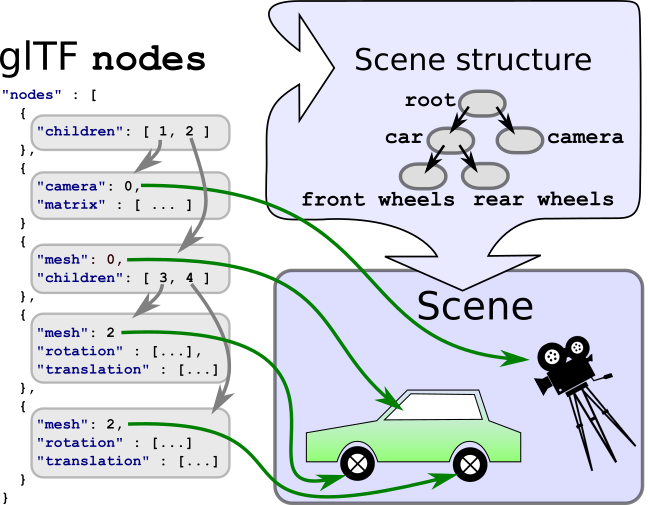
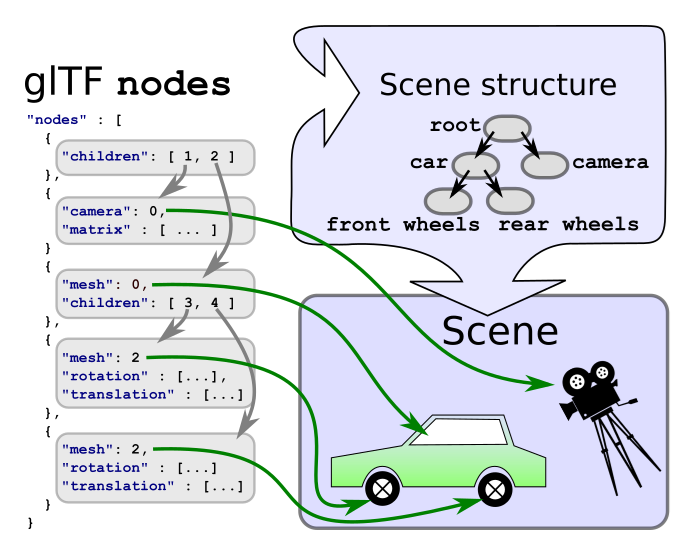
Wording for gltf 1~7

diff --git a/src/ComputerGraphic/gltf/ScenesNodes/README.md b/src/ComputerGraphic/gltf/ScenesNodes/README.md
@@ -11,7 +11,7 @@ category: computer-graphic
 
 ## Scenes
 
-一個 glTF 檔案中可以儲存多個場景（scene）。 `scene` 屬性用來指定這些場景中哪一個應該作為載入 asset 時預設顯示的場景。 每個 scene 包含一個 `nodes` 陣列，裡面是場景圖（scene graph）根節點的索引。 同樣地，一個場景可以有多個根節點，形成不同的階層結構，不過一般情況下通常只會有一個根節點
+一個 glTF 檔案中可以儲存多個場景，`scene` 屬性用來指定這些場景中哪一個應該作為載入 asset 時預設顯示的場景。 每個 scene 包含一個 `nodes` 陣列，裡面是場景圖根節點的索引。 同樣地，一個場景可以有多個根節點，形成不同的階層結構，不過一般情況下通常只會有一個根節點
 
 下面是一個最簡單的場景描述形式，在前一節已經出現過了，它只包含一個場景和一個節點：
 
@@ -30,9 +30,18 @@ category: computer-graphic
   ],
 ```
 
+表示：
+
+- `"scene": 0`
+  - 指定預設要載入的 scene，是 `scenes` 陣列中的第 0 個。
+- `"scenes": [{ "nodes": [0] }]`
+  - `scenes[0]` 這個場景中有一個 root node：`nodes[0]`
+- `"nodes": [{ "mesh": 0 }]`
+  - `nodes[0]` 裡有一個 mesh，是 `meshes[0]`
+
 ## Nodes forming the scene graph
 
-每個 [`node`](https://www.khronos.org/registry/glTF/specs/2.0/glTF-2.0.html#reference-node) 都可以包含一個名為 `children` 的陣列，裡面存的是它的子節點（child nodes）的索引。 因此，每個 node 都是節點階層結構中的一個元素，這些節點彼此組合起來，就構成了場景的結構，也就是所謂的場景圖（scene graph）
+每個 [`node`](https://www.khronos.org/registry/glTF/specs/2.0/glTF-2.0.html#reference-node) 都可以包含一個名為 `children` 的陣列，裡面存的是它的子節點的索引。 因此，每個 node 都是節點階層結構中的一個元素，這些節點彼此組合起來，就構成了場景的結構，也就是所謂的場景圖（scene graph）
 
 <div class = "center-column">
 
@@ -41,9 +50,9 @@ category: computer-graphic
 
 </div>
 
-在 `scene` 中列出的每一個節點，都可以透過走訪的方式，遞迴地拜訪它們的所有子節點，以處理所有附加在這些節點上的元素。 簡化版的遍歷流程（pseudocode）可能長這樣：
+在 `scene` 中列出的每一個節點，都可以透過走訪的方式，遞迴地拜訪它們的所有子節點，以處理所有附加在這些節點上的元素。 簡化版的走訪流程（pseudocode）可能長這樣：
 
-```scss
+```c
 traverse(node) {
     // Process the meshes, cameras, etc., that are
     // attached to this node - discussed later
@@ -56,13 +65,13 @@ traverse(node) {
 }
 ```
 
-實際上，在進行遍歷時還需要額外的資訊：
+實際上，在進行走訪時還需要額外的資訊：
 
 - 某些附加在節點上的元素，處理時需要知道它們是附加在哪個節點上的
-- 而且，節點的**變換資訊（transform）**需要在遍歷過程中累積起來
+- 而且，節點的變換資訊需要在走訪過程中累積起來
 
 ::: tip  
-在 glTF 的場景圖（scene graph）裡，每個節點（node）都可以有自己的 transform（變換），也就是：
+在 glTF 的場景圖裡，每個節點都可以有自己的變換，也就是：
 
 - 位移（translation）
 - 旋轉（rotation）
@@ -70,12 +79,12 @@ traverse(node) {
 
 這些變換定義了「這個節點的座標系」相對於它的父節點的位置關係。 所以，當你要算一個節點的最終世界座標（world transform）時，你必須從 root node 開始，沿著樹一路累積每一層的變換
 
-這就是上方「transform 累積」的意思  
+這就是上方提到的「累積」的意思  
 :::
 
 ### Local and global transforms
 
-每個節點（node）都可以擁有一個變換（transform）。 這個變換可以包含位移（translation）、旋轉（rotation）和／或縮放（scale），其會套用到附加在該節點上的所有元素，以及該節點底下的所有子節點
+每個節點都可以擁有一個變換，這個變換可以包含位移（translation）、旋轉（rotation）和縮放（scale），其會套用到附加在該節點上的所有元素，以及該節點底下的所有子節點
 
 透過節點之間的階層結構，可以組織並管理套用到場景元素上的位移、旋轉與縮放變換
 
@@ -85,9 +94,9 @@ traverse(node) {
 
 下面這個矩陣描述了：
 
-- 一個縮放（scaling）操作，縮放比例為 (2, 1, 0.5)
-- 一個繞 x 軸旋轉 30 度（rotation）
-- 以及一個位移（translation）(10, 20, 30)
+- 一個縮放操作，縮放比例為 `(2, 1, 0.5)`
+- 一個繞 x 軸旋轉 30 度
+- 一個位移操作 `(10, 20, 30)`
 
 ```javascript
 "node0": {
@@ -147,7 +156,7 @@ R = \begin{pmatrix}
 \end{pmatrix}
 $$
 
-`scale`（縮放）包含了沿著 x、y、z 軸方向的縮放係數，可以透過把這些係數填入矩陣的對角線來建立對應的縮放矩陣， 例如係數 `[ 2.0, 1.0, 0.5 ]` 對應的縮放矩陣如下所示：
+`scale`包含了沿著 x、y、z 軸方向的縮放係數，可以透過把這些係數填入矩陣的對角線來建立對應的縮放矩陣， 例如係數 `[ 2.0, 1.0, 0.5 ]` 對應的縮放矩陣如下所示：
 
 $$
 S = \begin{pmatrix}
@@ -191,9 +200,7 @@ M = T \times R \times S =
 \end{pmatrix}
 $$
 
-這個矩陣會讓網格（mesh）的頂點按照節點中指定的 `scale`、`rotation`、`translation` 屬性，依序進行縮放 → 旋轉 → 平移的變換
-
-如果節點中沒有提供這三個屬性中的某一個，則會自動使用單位矩陣（identity matrix）代替。 同樣地，如果一個節點既沒有 `matrix` 屬性，也沒有 TRS 屬性，那它的局部變換矩陣就是單位矩陣
+這個矩陣會讓網格的頂點按照節點中指定的 `scale`、`rotation`、`translation` 屬性，依序進行縮放 → 旋轉 → 平移的變換。 如果節點中沒有提供這三個屬性中的某一個，則會自動使用單位矩陣（identity matrix）代替。 同樣地，如果一個節點既沒有 `matrix` 屬性，也沒有 TRS 屬性，那它的局部變換矩陣就是單位矩陣
 
 #### Global transforms of nodes
 
@@ -207,7 +214,7 @@ root                 R                   R
      +- nodeC        C                   R*A*C
 ```
 
-要注意的是，載入 glTF 檔案之後，全域變換（global transforms）並不是一次計算完就結束了，後面會提到，像是動畫（animation），可能會動態修改某些節點的區域變換，而這些變動又會影響到所有子節點（descendant nodes）的全域變換
+要注意的是，載入 glTF 檔案之後，全域變換並不是一次計算完就結束了，後面會提到，像是動畫可能會動態修改某些節點的區域變換，而這些變動又會影響到所有子節點（descendant nodes）的全域變換
 
 因此，每當需要取得某個節點的 global transform 時，都必須從目前最新的各個節點的 local transforms 重新計算。 實作上也可以通過快取全域變換來優化，並且只在偵測到祖先節點（ancestor nodes）有變動時，才重新更新 global transform
 

diff --git a/src/ComputerGraphic/gltf/SimpleAnimation/README.md b/src/ComputerGraphic/gltf/SimpleAnimation/README.md
@@ -164,25 +164,6 @@ category: computer-graphic
 - 一個新的 `bufferView`，用來參考這個 buffer
 - 兩個新的 `accessor` 物件，為動畫資料加入結構資訊
 
-::: tip  
-在這裡，「structural information（結構資訊）」是指附加在原始資料（raw data）之上，用來說明這些資料該怎麼被解讀、怎麼被排列、型別是什麼的額外描述資訊
-
-用 glTF 動畫的例子來講：
-
-- `buffer`：
-  純粹就是一連串的位元組（binary data），本身沒有結構意義，例如：「100 bytes 的資料」
-- `bufferView`：
-  把 `buffer` 切成小塊，但仍然不知道這些 bytes 是代表 float？還是 short？是一個數字還是一組向量？
-- `accessor`（這就是 Structural Information）：
-  其告訴你這段資料的結構：
-    - 資料型態是 `FLOAT`
-    - 每個元素是 `VEC4`（四個 float）
-    - 總共有多少筆資料（count）
-    - 每筆資料佔多少位元組（根據型態推得）
-
-這就是 structural information，把純資料加上「型別」「數量」「佈局」的說明，讓渲染器（或讀取程式）知道怎麼正確地去解讀這些二進位資料  
-:::
-
 ### The `buffer` and the `bufferView` for the raw animation data
 
 我們新增了一個 `buffer` 存放原始的動畫資料，這個 buffer 同樣是透過 data URI 來編碼的，動畫資料總共有 100 個位元組：
@@ -214,9 +195,9 @@ category: computer-graphic
 
 ### The `accessor` objects for the animation data
 
-我們新增了兩個 `accessor` 物件來描述該如何解讀動畫資料，第一個 `accessor` 描述的是動畫關鍵影格（key frames）的時間點（times），其有五個元素（`count = 5`），每個元素都是一個 float 的純量，總共佔用了 20 個位元組
+我們新增了兩個 `accessor` 物件來描述該如何解讀動畫資料，第一個 `accessor` 描述的是動畫關鍵影格（key frames）的時間點（times），其有五個元素（`count = 5`），元素是 float 的純量，總共佔用了 20 個位元組
 
-第二個 `accessor` 則描述，在前面的 20 個位元組之後有五個元素，每個元素都是由 float 所組成的四維向量，它們是以四元數（quaternions）的形式表示的，會對應到五個關鍵影格的旋轉：
+第二個 `accessor` 則描述，在第 20 個位元組之後有五個元素，每個元素都是由 float 所組成的四維向量，它們是以四元數（quaternions）的形式表示的，會對應到五個關鍵影格的旋轉：
 
 ```javascript
   "accessors" : [
@@ -240,10 +221,11 @@ category: computer-graphic
       "min" : [ 0.0, 0.0, 0.0, -0.707 ]
     }
   ],
-
 ```
 
 上例中由 times accessor 和 rotations accessor 提供的實際資料如下表所示：
+
+<div class = "center-column">
 
 | *times* accessor | *rotations* accessor | 含義 |
 |:---|:---|:---|
@@ -253,11 +235,48 @@ category: computer-graphic
 | 0.75 | (0.0, 0.0, 0.707, -0.707) | 在 0.75 秒時，三角形繞 z 軸旋轉了 270 度（= -90 度） |
 | 1.0 | (0.0, 0.0, 0.0, 1.0) | 在 1.0 秒時，三角形繞 z 軸旋轉了 360 度（= 0 度） |
 
+</div>
+
 因此這個動畫描述的是在 1 秒內，三角形繞 z 軸旋轉了 360 度
+
+::: tip  
+第一個 accessor 是 times accessor，它描述了：
+
+- 這個 accessor 會從 `bufferView[2]` 的 offset 0 開始讀資料
+- 每筆資料是 float（4 bytes）
+- `count: 5` → 共有 5 個 keyframe 時間點
+- `type: "SCALAR"` → 每個元素只有一個值（不是 vector）
+
+所以這段資料就被解釋成：
+
+```json
+times = [0.0, 0.25, 0.5, 0.75, 1.0]
+```
+
+而第二個 accessor 是 rotations accessor，描述了：
+
+- 從 `bufferView[2]` 的 offset = 20 開始讀（接在 times 後面）
+- 每筆資料是 VEC4 → 四個 float（16 bytes）
+- `count: 5` → 共有 5 筆 rotation 資料
+
+所以這段資料解釋成：
+
+```json
+rotations = [
+  (0.0, 0.0, 0.0, 1.0),      // identity quaternion → 0 度
+  (0.0, 0.0, 0.707, 0.707),  // 90 度
+  (0.0, 0.0, 1.0, 0.0),      // 180 度
+  (0.0, 0.0, 0.707, -0.707), // 270 度 (或 -90 度)
+  (0.0, 0.0, 0.0, 1.0)       // 回到初始角度
+]
+```
+
+要注意這些數值都是從對應的 buffer 中讀出來的，而不是計算出來的，跟下方的 `LINEAR` 沒有關係  
+:::
 
 ## The `animation`  
 
-`animation` 是實際新增動畫資料的部分，glTF 最上層的 `animations` 陣列中包含一個 `animation` 物件，這個物件由兩個部分組成：
+`animation` 是實際新增的動畫資料的部分，glTF 最上層的 `animations` 陣列中包含一個 `animation` 物件，這個物件由兩個部分組成：
 
 - `samplers`：描述動畫資料的來源
 - `channels`：可以想像成把「動畫資料的來源」連接到「動畫資料的目標」上的橋樑
